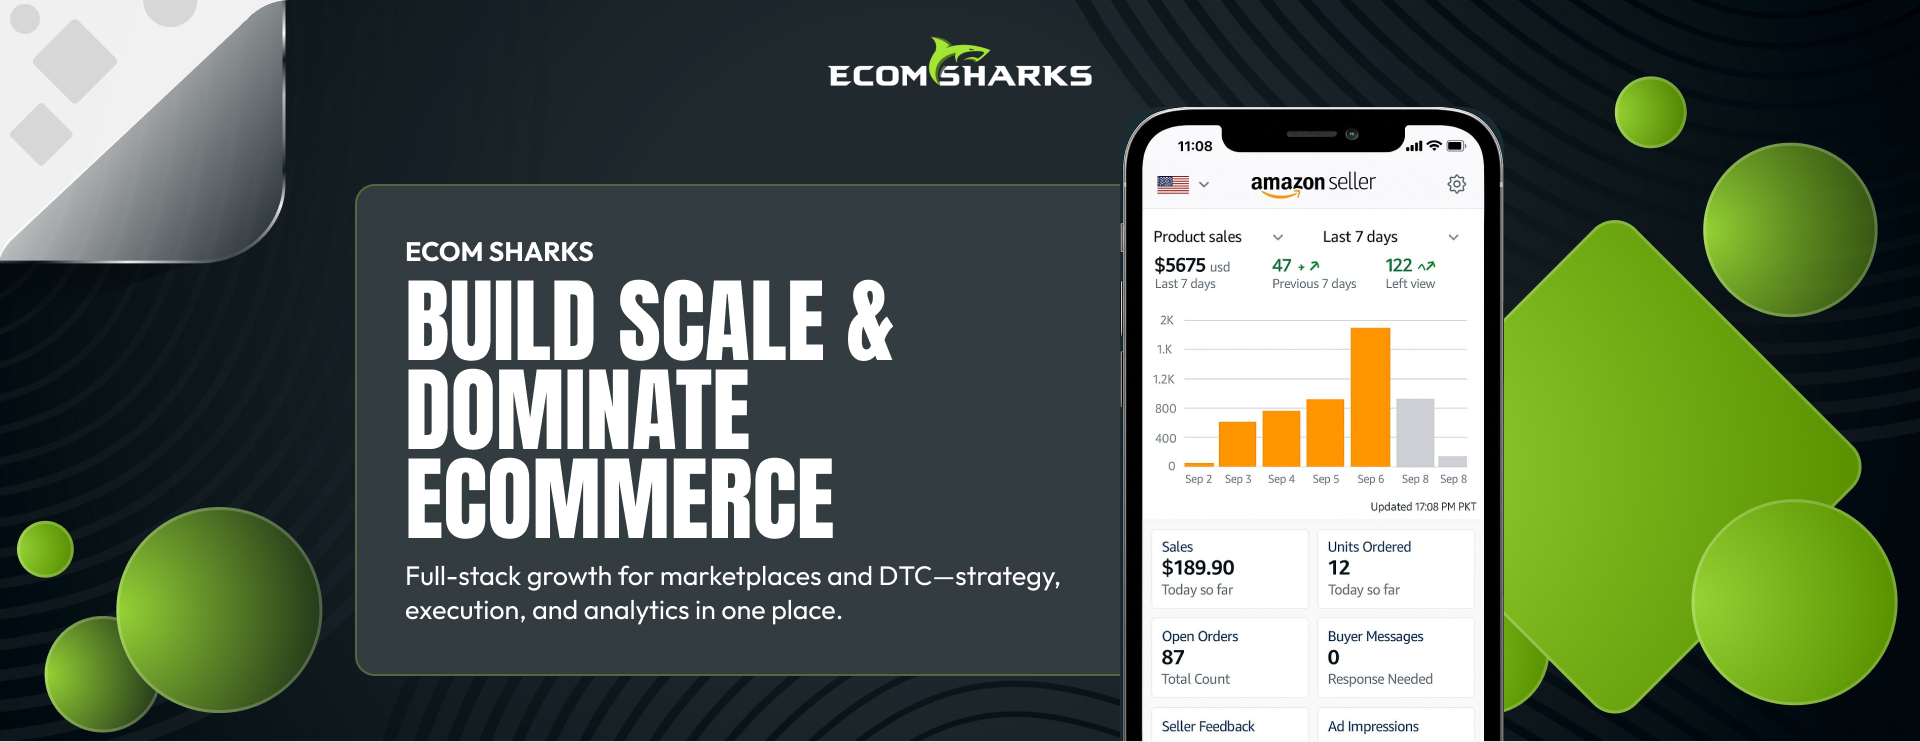
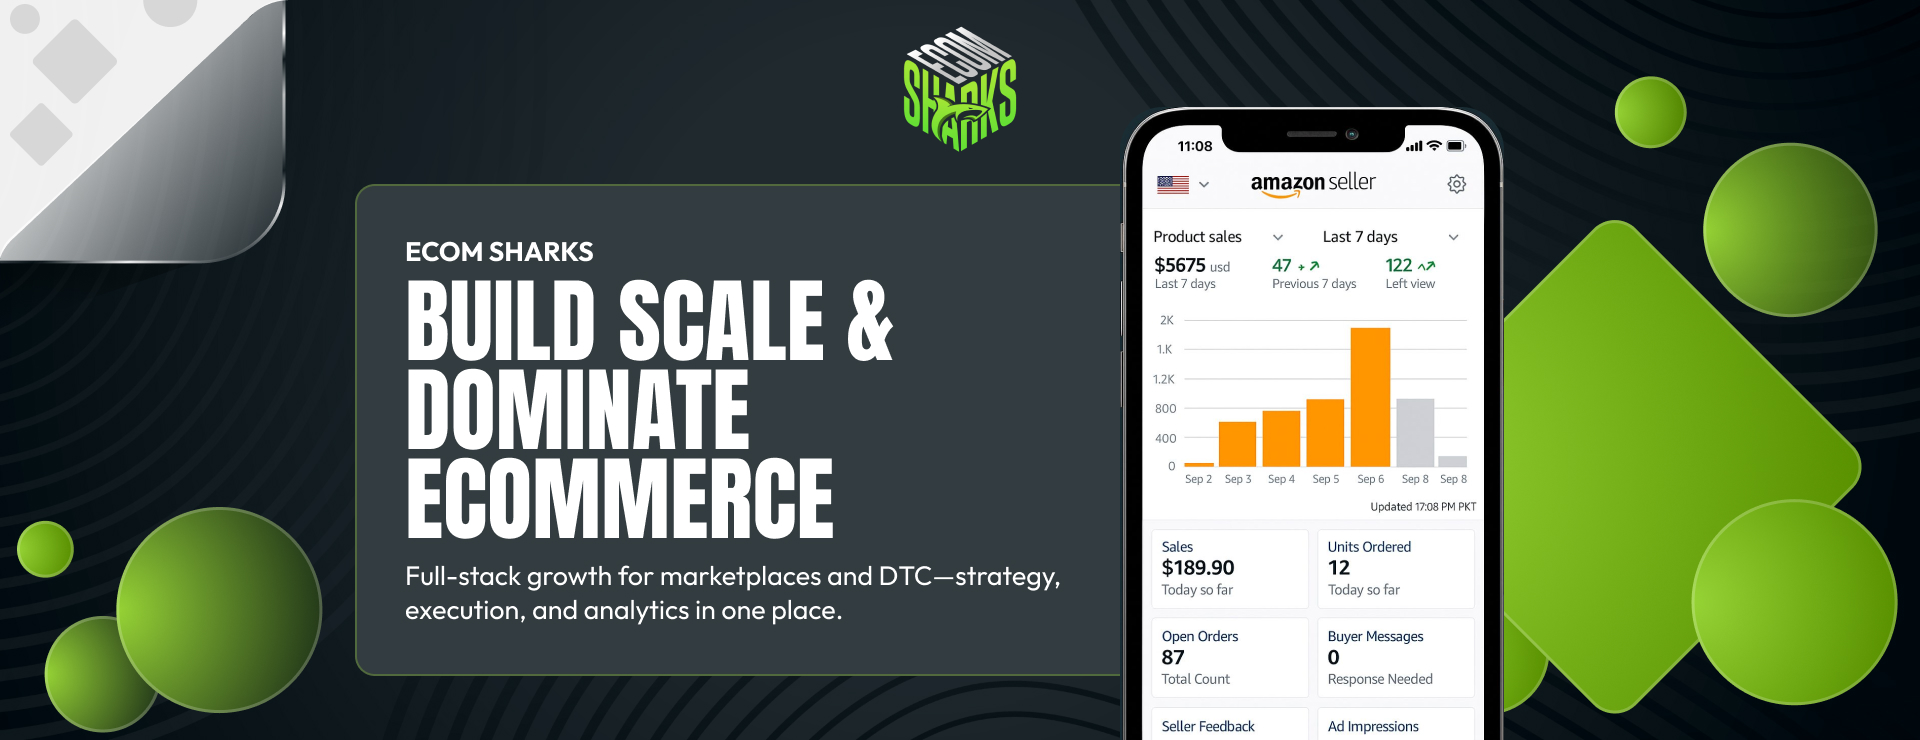
changes fixed

diff --git a/src/pages/Home.tsx b/src/pages/Home.tsx
@@ -1,4 +1,4 @@
-import { AnimatePresence, motion } from "framer-motion";
+import {  motion } from "framer-motion";
 
 import { TrendingUp, Users, Award, ArrowRight } from "lucide-react";
 
@@ -21,7 +21,7 @@ import OfferTag from "@/components/OfferTag";
 const images = [img1, img2, img3];
 export default function Home() {
   // const navigation=useNavigate()
-  const [current, setCurrent] = useState(0);
+  const [, setCurrent] = useState(0);
 
   // Auto change image after 3 seconds
   useEffect(() => {
@@ -30,12 +30,44 @@ export default function Home() {
     }, 3000);
     return () => clearInterval(interval);
   }, []);
-
+     const [currentIndex, setCurrentIndex] = useState(0);
+     
+     
+     useEffect(() => {
+     const interval = setInterval(() => {
+     setCurrentIndex((prevIndex) => (prevIndex + 1) % images.length);
+     }, 3000); // 3 seconds interval
+     
+     
+     return () => clearInterval(interval);
+     }, []);
   return (
     <>
       <div className="min-h-screen ">
         <OfferTag />
-        <motion.section
+
+<div className="relative w-full overflow-hidden">
+  <div
+    className="flex transition-transform duration-700"
+    style={{ transform: `translateX(-${currentIndex * 100}%)` }}
+  >
+    {images.map((img, index) => (
+      <div
+        key={index}
+        className="w-full flex-shrink-0 h-[200px] sm:h-[300px] md:h-[400px] lg:h-[600px] xl:h-screen"
+      >
+        <img
+  src={img}
+  alt={`Slide ${index}`}
+  className="w-full h-full object-contain sm:object-cover"
+/>
+
+      </div>
+    ))}
+  </div>
+</div>
+
+        {/* <motion.section
           initial={{ opacity: 0, y: 20 }}
           animate={{ opacity: 1, y: 0 }}
           transition={{ duration: 0.8 }}
@@ -47,14 +79,15 @@ export default function Home() {
               initial={{ opacity: 0, scale: 1.05 }}
               animate={{ opacity: 1, scale: 1 }}
               exit={{ opacity: 0, scale: 0.95 }}
-              transition={{ duration: 1 }}
+              transition={{ duration: 4 }}
               className="absolute inset-0 bg-cover bg-center"
               style={{
                 backgroundImage: `url(${images[current]})`,
               }}
             />
           </AnimatePresence>
-        </motion.section>
+        </motion.section> */}
+        
 
         <motion.section
           initial={{ opacity: 0, y: 40 }}

diff --git a/src/components/HomeImportantQuery.tsx b/src/components/HomeImportantQuery.tsx
@@ -2,22 +2,22 @@ import { useState } from "react";
 
 const faqData = [
   {
-    question: "Why should I choose The Rocket Retail for my Amazon business?",
+    question: "Why should I choose The Ecom Sharks for my Amazon business?",
     answer:
-      "The Rocket Retail is one of the top full-service agencies in this industry. It boasts a roadmap from success to sustainable growth for each brand. Our specialized solutions are made to measure results through creative content and advertising.",
+      "The Ecom Sharks is one of the top full-service agencies in this industry. It boasts a roadmap from success to sustainable growth for each brand. Our specialized solutions are made to measure results through creative content and advertising.",
   },
   {
-    question: "How does The Rocket Retail optimize product listings?",
+    question: "How does The Ecom Sharks optimize product listings?",
     answer:
       "We use advanced SEO, market research, and optimization techniques to make your listings more visible and appealing to customers.",
   },
   {
-    question: "Can The Rocket Retail help with global expansion?",
+    question: "Can The Ecom Sharksl help with global expansion?",
     answer:
       "Yes, we have expertise in expanding your business to multiple global marketplaces.",
   },
   {
-    question: "What industries does The Rocket Retail cater to?",
+    question: "What industries does The Ecom Sharks cater to?",
     answer:
       "We work across multiple industries, including retail, fashion, electronics, and more.",
   },

diff --git a/src/pages/About.tsx b/src/pages/About.tsx
@@ -68,7 +68,7 @@ const About = () => {
             <div className="flex items-center justify-center mb-8">
               <ShoppingCart className="w-16 h-16 text-lime-400 mr-4" />
               <h1 className="text-5xl md:text-7xl font-bold text-white">
-                Ecommerce <span className="text-lime-400">Shark</span>
+                Ecommerce <span className="text-lime-400">Sharks</span>
               </h1>
             </div>
             <p className="text-xl md:text-2xl text-gray-300 max-w-3xl mx-auto leading-relaxed">
@@ -274,7 +274,7 @@ const About = () => {
             }`}
           >
             <h2 className="text-4xl md:text-5xl font-bold text-white mb-6">
-              Why Ecommerce Shark?
+              Why Ecommerce Sharks?
             </h2>
             <p className="text-xl text-gray-300 max-w-3xl mx-auto">
               We don't just build ecommerce platforms - we create growth engines

diff --git a/src/components/Navigation.tsx b/src/components/Navigation.tsx
@@ -151,7 +151,7 @@ export default function Navigation() {
         className={cn(
           "fixed top-0 left-0 right-0 z-50 transition-all duration-300",
           isScrolled
-            ? "bg-transparent backdrop-blur-md border-b border-border/50 shadow-lg"
+            ? "bg-[#1b272e] backdrop-blur-md border-b border-border/50 shadow-lg"
             : "bg-[#1e272e] backdrop-blur-sm"
         )}
       >
@@ -170,7 +170,7 @@ export default function Navigation() {
                   <Link
                     to={item.path}
                     className={cn(
-                      "relative px-3 py-2 text-sm font-medium transition-colors hover:text-[#a3e635]",
+                      "relative px-3 py-2 text-lg font-medium transition-colors hover:text-[#a3e635]",
                       location.pathname === item.path
                         ? "text-[#a3e635]"
                         : "text-white"

diff --git a/src/components/PartnershipSection.tsx b/src/components/PartnershipSection.tsx
@@ -30,7 +30,7 @@ export default function PartnershipSection() {
       <div className="max-w-7xl mx-auto text-center mb-14">
         <h2 className="text-3xl  md:text-6xl font-bold text-white">
           Ecommerce {" "}
-          <span className="text-lime-400">Shark</span> 
+          <span className="text-lime-400">Sharks</span> 
         </h2>
         <p className="mt-4 text-gray-300 max-w-3xl mx-auto">
           Partnering with us means handing over the reins to a team dedicated to

diff --git a/src/components/ComparisionSection.tsx b/src/components/ComparisionSection.tsx
@@ -35,7 +35,7 @@ export default function ComparisonSection() {
           className="p-6 rounded-lg shadow"
         >
           <h3 className="text-lg font-bold mb-4 text-[#a3e635]">
-            Growth With The Rocket Retail
+            Growth With The Ecom Sharks
           </h3>
           <ul className="space-y-4">
             {growthPoints.map((point, i) => (

diff --git a/src/components/HomeSection.tsx b/src/components/HomeSection.tsx
@@ -1,7 +1,7 @@
 import { motion } from "framer-motion";
 import leftImage from "../images/sam-club.webp";
 import centerImage from "../images/ebay.webp";
-import rightImage from "../images/Logo1.jpg";
+import rightImage from "../images/Logo3.png";
 
 export default function HomeSection() {
   return (

diff --git a/vite.config.ts b/vite.config.ts
@@ -4,6 +4,7 @@ import react from '@vitejs/plugin-react';
 
 // https://vitejs.dev/config/
 export default defineConfig({
+  base: './',
   plugins: [react()],
   resolve: {
     alias: {
